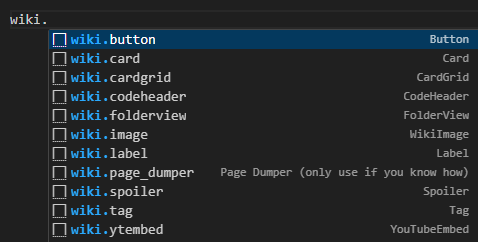
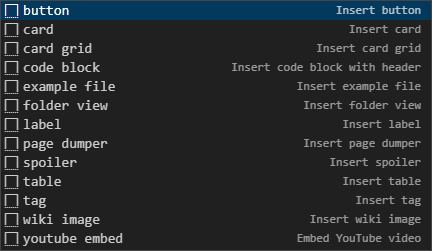
Updated snippets

diff --git a/docs/contribute-style.md b/docs/contribute-style.md
@@ -348,8 +348,8 @@ A list where each item is either checked or unchecked. An `x` between the square
 
 Our wiki uses special Vue-Components, which you can use to add things like Buttons, Spoilers, CodeBlocks, etc.
 
-:::tip Snippets
-We have snippets for our components. To see them, start typing `wiki.` in Markdown file and then press `Ctrl + Space`.
+:::tip SNIPPETS
+We have snippets for our components. To see them, press `Ctrl + Space` when editing a page.
 
 ![](/assets/images/contribute/snippets/snippets.png)
 :::
